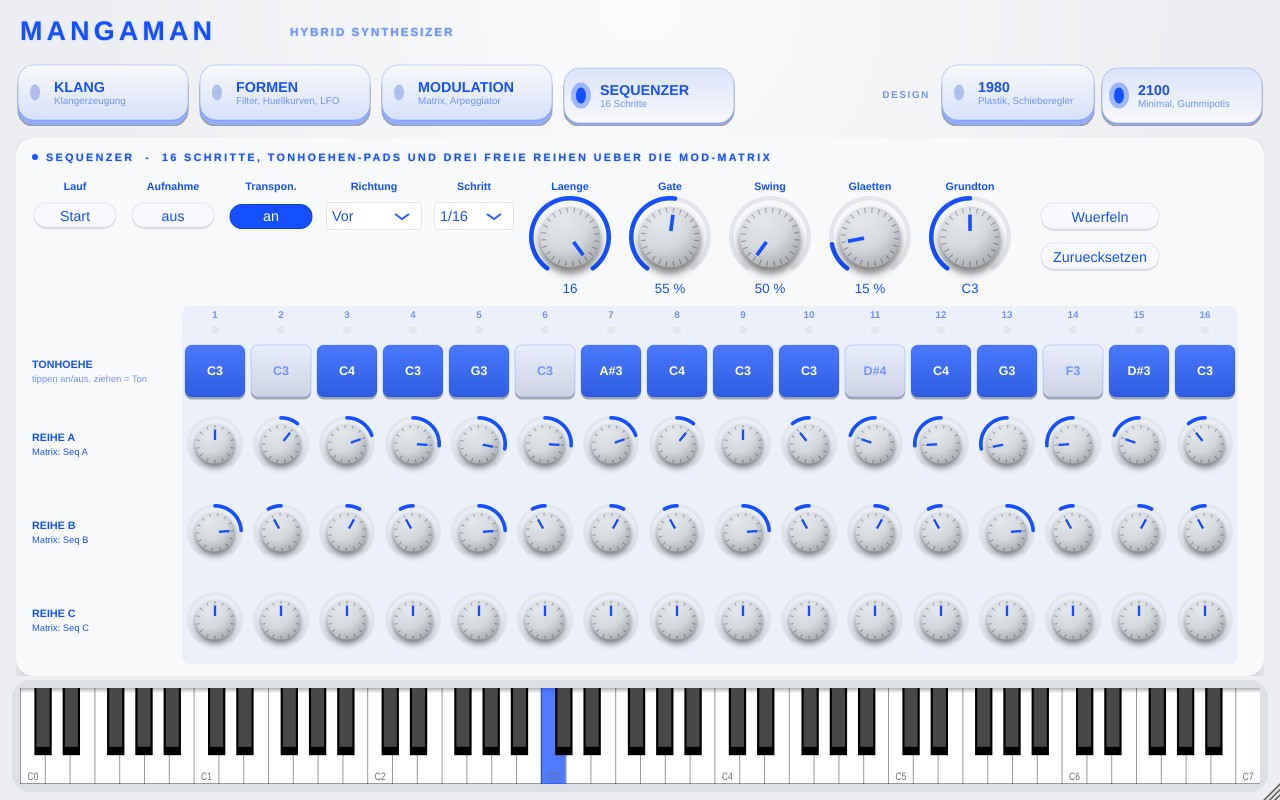
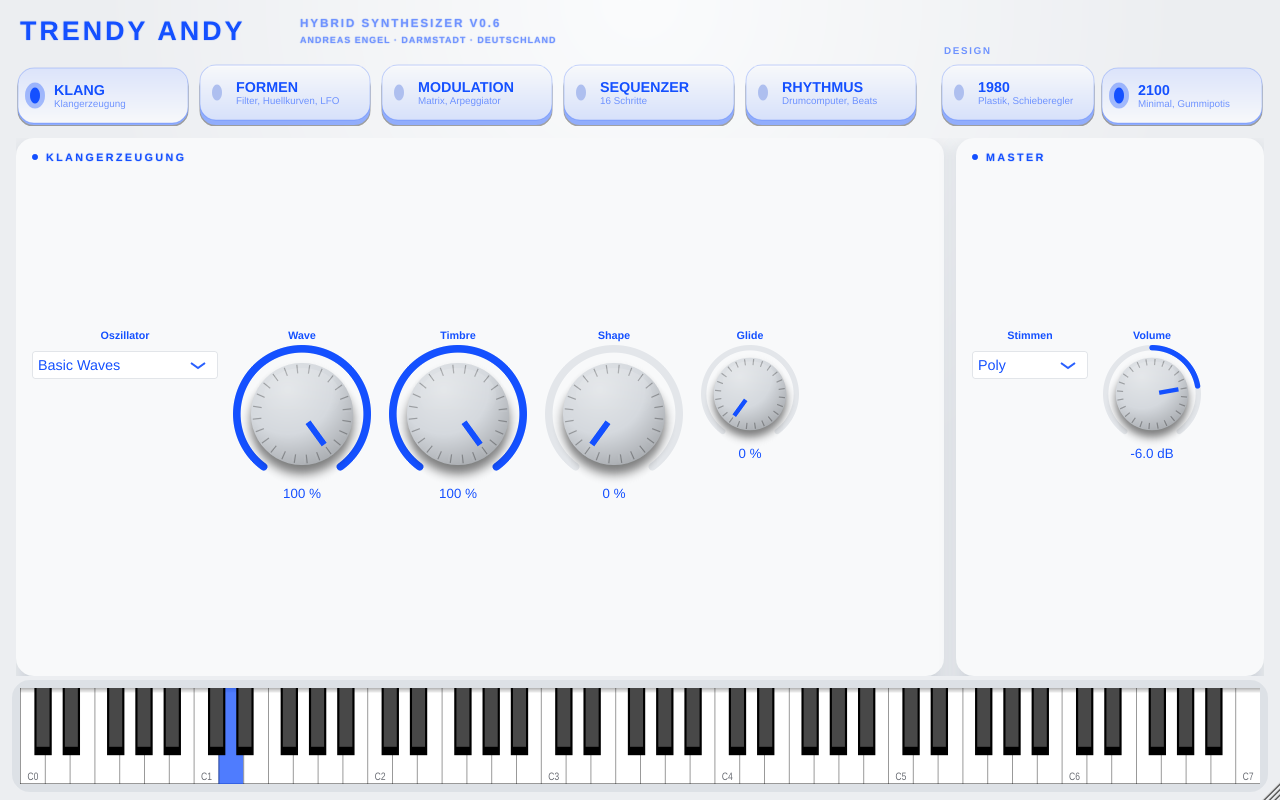
Umbenennung in TRENDY ANDY, Version 0.6, Hersteller Andreas Engel
Produktname, Version (0.6.0), Hersteller und Copyright in CMakeLists,
Titel mit Versions- und Herstellerzeile in der Oberfläche, README,
Installer (macOS .pkg/.dmg, Windows Inno Setup) und Release-Workflow.
Plugin-Kennung Andi/Mgmn und Code-Bezeichner bleiben, alte Songs laden
weiter; die Installer entfernen eine vorhandene Mangaman-Installation.

Claude-Session: https://claude.ai/code/session_01BPNgcPnFkynDWXFteEe4Wv

diff --git a/Source/PluginEditor.cpp b/Source/PluginEditor.cpp
@@ -8,6 +8,17 @@ namespace
 
     MangamanLook& lookOf (juce::Component& c) { return static_cast<MangamanLook&> (c.getLookAndFeel()); }
 
+    // Versionsanzeige aus CMakeLists (0.6.0 -> "V0.6")
+    juce::String versionLabel()
+    {
+        auto v = juce::String (JucePlugin_VersionString);
+        while (v.endsWith (".0") && v.containsChar ('.') && v.indexOfChar ('.') != v.lastIndexOfChar ('.'))
+            v = v.dropLastCharacters (2);
+        return "V" + v;
+    }
+
+    juce::String makerLabel() { return juce::String::fromUTF8 ("ANDREAS ENGEL \xc2\xb7 DARMSTADT \xc2\xb7 DEUTSCHLAND"); }
+
     //==========================================================================
     // Drehregler mit Gummi-Kappe: gibt beim Berühren nach, folgt dem Wert federnd
     class RubberSlider : public juce::Slider, private juce::Timer
@@ -826,18 +837,23 @@ namespace
             if (th.faders())
             {
                 g.setColour (th.ink);
-                g.setFont (juce::FontOptions (32.0f, juce::Font::bold | juce::Font::italic).withKerningFactor (0.18f));
-                g.drawText ("MANGAMAN", 20, 12, 320, 38, juce::Justification::centredLeft);
+                g.setFont (juce::FontOptions (32.0f, juce::Font::bold | juce::Font::italic).withKerningFactor (0.12f));
+                g.drawText ("TRENDY ANDY", 20, 12, 300, 38, juce::Justification::centredLeft);
                 g.setColour (th.accent);
                 g.setFont (juce::FontOptions (13.0f, juce::Font::bold).withKerningFactor (0.15f));
-                g.drawText ("HYBRID SYNTHESIZER", 300, 14, 220, 36, juce::Justification::centredLeft);
+                g.drawText ("HYBRID SYNTHESIZER " + versionLabel(), 300, 14, 260, 18, juce::Justification::centredLeft);
+                g.setColour (th.dim);
+                g.setFont (juce::FontOptions (10.0f, juce::Font::bold).withKerningFactor (0.1f));
+                g.drawText (makerLabel(), 300, 32, 300, 16, juce::Justification::centredLeft);
             }
             else
             {
-                g.setFont (juce::FontOptions (30.0f, juce::Font::bold).withKerningFactor (0.14f));
-                Design::drawText (g, th, "MANGAMAN", { 20.0f, 12.0f, 320.0f, 38.0f }, juce::Justification::centredLeft, th.ink);
+                g.setFont (juce::FontOptions (30.0f, juce::Font::bold).withKerningFactor (0.1f));
+                Design::drawText (g, th, "TRENDY ANDY", { 20.0f, 12.0f, 290.0f, 38.0f }, juce::Justification::centredLeft, th.ink);
                 g.setFont (juce::FontOptions (13.0f, juce::Font::bold).withKerningFactor (0.15f));
-                Design::drawText (g, th, "HYBRID SYNTHESIZER", { 290.0f, 14.0f, 220.0f, 36.0f }, juce::Justification::centredLeft, th.dim);
+                Design::drawText (g, th, "HYBRID SYNTHESIZER " + versionLabel(), { 300.0f, 14.0f, 260.0f, 18.0f }, juce::Justification::centredLeft, th.dim);
+                g.setFont (juce::FontOptions (10.0f, juce::Font::bold).withKerningFactor (0.1f));
+                Design::drawText (g, th, makerLabel(), { 300.0f, 32.0f, 300.0f, 16.0f }, juce::Justification::centredLeft, th.dim);
             }
             g.setColour (th.dim);
             g.setFont (juce::FontOptions (11.0f, juce::Font::bold).withKerningFactor (0.15f));

diff --git a/README.md b/README.md
@@ -1,4 +1,8 @@
-# Mangaman – hybrider Synthesizer nach Vorbild des Arturia MicroFreak (AU / VST3 / Standalone)
+# TRENDY ANDY – hybrider Synthesizer nach Vorbild des Arturia MicroFreak (AU / VST3 / Standalone)
+
+Version 0.6 · produziert von Andreas Engel, Darmstadt, Deutschland
+
+(Früher „Mangaman“. Im Quellcode heißen das CMake-Ziel und die Klassen weiterhin `Mangaman`; die Plugin-Kennung `Andi`/`Mgmn` ist unverändert, alte Songs laden das Plugin also weiter.)
 
 ![Oberflaeche](Oberflaeche.png)
 
@@ -63,12 +67,12 @@ cmake --build build --config Release
 Beim ersten Lauf lädt CMake JUCE automatisch herunter (Internet nötig, dauert ein paar Minuten).
 Nach dem Bauen werden die Plugins automatisch installiert:
 
-- `~/Library/Audio/Plug-Ins/Components/Mangaman.component` (AU)
-- `~/Library/Audio/Plug-Ins/VST3/Mangaman.vst3` (VST3)
+- `~/Library/Audio/Plug-Ins/Components/TRENDY ANDY.component` (AU)
+- `~/Library/Audio/Plug-Ins/VST3/TRENDY ANDY.vst3` (VST3)
 
-Die Standalone-App liegt unter `build/Mangaman_artefacts/Release/Standalone/Mangaman.app`.
+Die Standalone-App liegt unter `build/Mangaman_artefacts/Release/Standalone/TRENDY ANDY.app`.
 
-**Logic:** nach dem Bauen Logic neu starten; das Plugin erscheint unter *Instrument → AU-Instrumente → Andi → Mangaman*.
+**Logic:** nach dem Bauen Logic neu starten; das Plugin erscheint unter *Instrument → AU-Instrumente → Andreas Engel → TRENDY ANDY*.
 Falls nicht: Logic → Einstellungen → Plug-in-Manager → „Zurücksetzen & Neu scannen“.
 Prüfen geht auch per Terminal: `auval -v aumu Mgmn Andi`
 
@@ -110,7 +114,7 @@ Lizenz: JUCE ist unter AGPLv3 frei nutzbar oder mit kommerzieller JUCE-Lizenz.
 ## Fertige Installer (.dmg / .exe)
 
 Der Workflow `.github/workflows/installer.yml` baut bei jedem Push auf `main` auf GitHub:
-- `Mangaman-<version>-macOS.dmg` (enthält einen .pkg-Installer für AU, VST3 und Standalone) – Skript `packaging/macos/make-dmg.sh`
-- `Mangaman-<version>-Windows-Setup.exe` (Inno Setup, VST3 und Standalone) – Skript `packaging/windows/Mangaman.iss`
+- `TrendyAndy-<version>-macOS.dmg` (enthält einen .pkg-Installer für AU, VST3 und Standalone) – Skript `packaging/macos/make-dmg.sh`
+- `TrendyAndy-<version>-Windows-Setup.exe` (Inno Setup, VST3 und Standalone) – Skript `packaging/windows/Mangaman.iss`
 
 Beide landen als Release `v<version>` auf der Releases-Seite des Repos. Sie sind nicht signiert.
